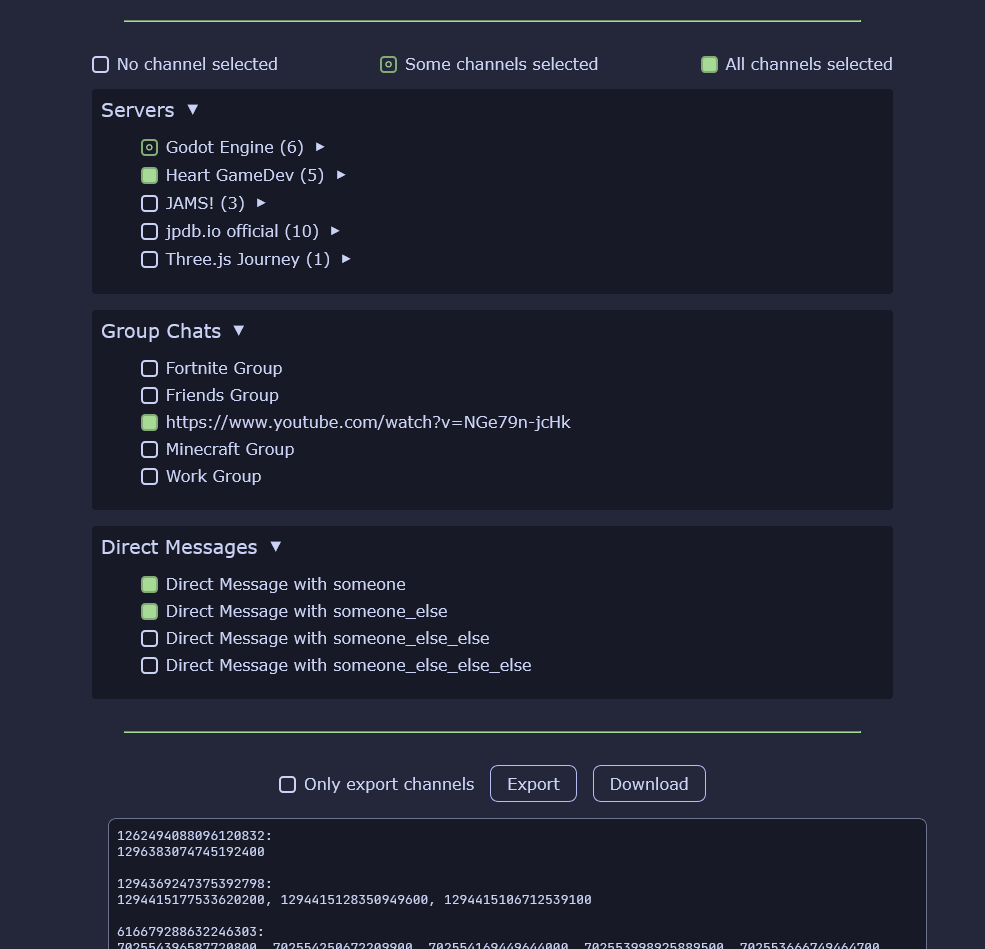
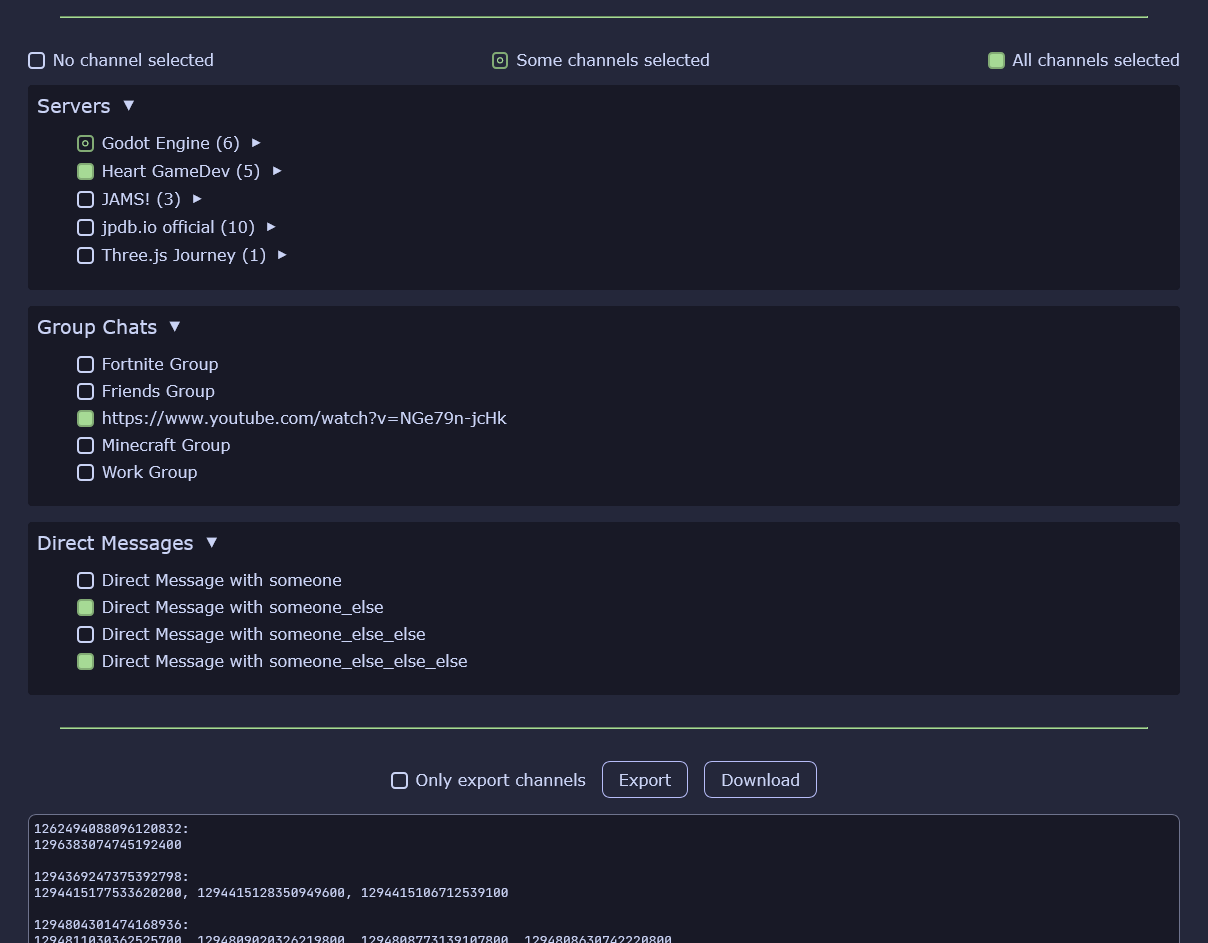
fix: visual improvements fix: screenshot

diff --git a/style.css b/style.css
@@ -5,6 +5,12 @@ body {
     margin: 0 20%;
 }
 
+@media only screen and (max-width: 768px) {
+    body {
+        margin: 1rem;
+    }
+}
+
 ul {
     list-style-type: none;
 }
@@ -178,7 +184,6 @@ button:hover {
 
 textarea {
     resize: none;
-    padding: .5rem;
     display: block;
     width: 100%;
     background: #181926;
@@ -187,6 +192,8 @@ textarea {
     min-height: 1vh;
     color: #cad3f5;
     margin: 1rem 0;
+    padding: .3rem;
+    box-sizing: border-box;
 }
 
 .hidden,
